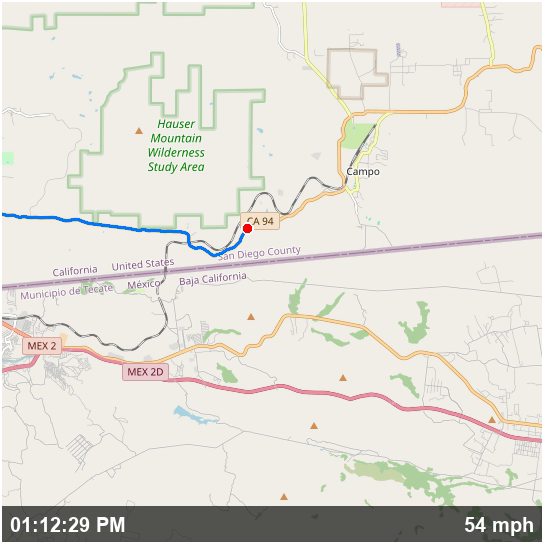
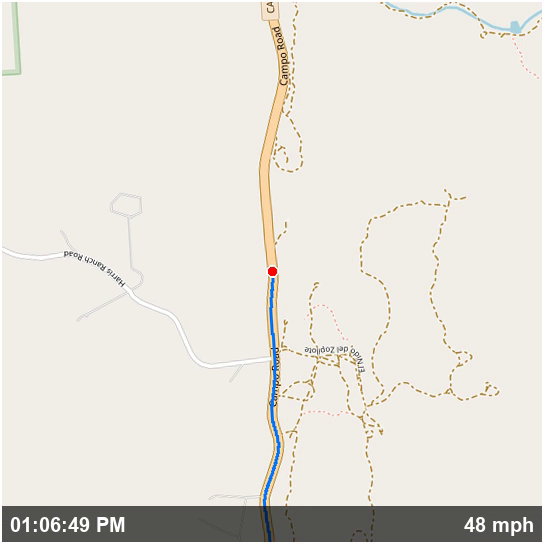
Add heading-up rotation, zoom-in intro, and tile caching
- Map rotates so direction of travel always points up (nav-style)
- 5-second animated zoom intro from state level (z7) to cruise (z15)
- Cruise zoom changed from auto-fit to z15 for street-level detail
- Disk-based tile cache under %TEMP%\gopro_tile_cache for fast re-runs
- Pre-fetch step downloads all needed tiles before rendering
- Smooth heading with exponential moving average

diff --git a/gopro_map_overlay.py b/gopro_map_overlay.py
@@ -115,6 +115,7 @@ TILE_SERVERS = {
 }
 
 TILE_CACHE = {}
+TILE_CACHE_DIR = os.path.join(tempfile.gettempdir(), 'gopro_tile_cache')
 USER_AGENT = 'gopro-map-overlay/1.0 (https://github.com/MikeMontana1968/gopro-map-overlay)'
 
 
@@ -128,35 +129,86 @@ def _ll_to_tile(lat, lon, zoom):
 
 
 def _fetch_tile(tx, ty, zoom, map_type):
-    """Fetch a single 256x256 map tile, with in-memory caching."""
+    """Fetch a 256x256 map tile with memory + disk caching."""
     key = (tx, ty, zoom, map_type)
     if key in TILE_CACHE:
         return TILE_CACHE[key]
+
+    # Check disk cache
+    cache_dir = os.path.join(TILE_CACHE_DIR, map_type, str(zoom))
+    cache_path = os.path.join(cache_dir, f"{tx}_{ty}.png")
+    if os.path.isfile(cache_path):
+        img = Image.open(cache_path).convert('RGB')
+        TILE_CACHE[key] = img
+        return img
+
     url = TILE_SERVERS[map_type].format(z=zoom, x=tx, y=ty)
     try:
         req = Request(url, headers={'User-Agent': USER_AGENT})
-        resp = urlopen(req, timeout=15)
-        img = Image.open(BytesIO(resp.read())).convert('RGB')
+        resp = urlopen(req, timeout=5)
+        tile_data = resp.read()
+        img = Image.open(BytesIO(tile_data)).convert('RGB')
+        os.makedirs(cache_dir, exist_ok=True)
+        with open(cache_path, 'wb') as f:
+            f.write(tile_data)
     except Exception:
         img = Image.new('RGB', (256, 256), (200, 200, 200))
     TILE_CACHE[key] = img
     return img
 
 
-def choose_zoom(points, map_size):
-    """Pick a zoom level so the full GPS track fits in the map with padding."""
-    if len(points) < 2:
-        return 15
-    lats = [p['lat'] for p in points]
-    lons = [p['lon'] for p in points]
-    span = max(max(lats) - min(lats), max(lons) - min(lons))
-    if span == 0:
-        return 15
-    for z in range(18, 8, -1):
-        degrees_visible = 360 / (2 ** z) * (map_size / 256)
-        if degrees_visible > span * 1.5:
-            return z
-    return 10
+def prefetch_tiles(points, zoom_levels, map_size, map_type):
+    """Pre-fetch all tiles needed for the route at all zoom levels."""
+    import time
+    needed = set()
+    padding = 3
+    tiles_needed = (map_size // 256) + padding + 1
+    half = tiles_needed // 2
+
+    for z in zoom_levels:
+        for p in points:
+            cx, cy = _ll_to_tile(p['lat'], p['lon'], z)
+            center_tx, center_ty = int(cx), int(cy)
+            for dx in range(-half, half + 1):
+                for dy in range(-half, half + 1):
+                    needed.add((center_tx + dx, center_ty + dy, z))
+
+    # Remove already-cached tiles
+    to_fetch = []
+    for tx, ty, z in needed:
+        key = (tx, ty, z, map_type)
+        if key in TILE_CACHE:
+            continue
+        cache_path = os.path.join(TILE_CACHE_DIR, map_type, str(z), f"{tx}_{ty}.png")
+        if os.path.isfile(cache_path):
+            continue
+        to_fetch.append((tx, ty, z))
+
+    if not to_fetch:
+        print(f"  All {len(needed)} tiles already cached", flush=True)
+        return
+
+    print(f"  {len(needed)} tiles needed, {len(to_fetch)} to download...", flush=True)
+    for i, (tx, ty, z) in enumerate(to_fetch):
+        _fetch_tile(tx, ty, z, map_type)
+        if (i + 1) % 50 == 0:
+            print(f"    {i + 1}/{len(to_fetch)} tiles", flush=True)
+        time.sleep(0.05)  # rate limit: max 20 req/sec
+    print(f"  Tile prefetch complete", flush=True)
+
+
+CRUISE_ZOOM = 15  # ~1-2 mile context, good for 30-70 mph driving
+INTRO_ZOOM_START = 7  # state-level overview for the intro animation
+INTRO_DURATION = 5.0  # seconds for the zoom-in intro
+
+
+def _bearing(lat1, lon1, lat2, lon2):
+    """Compute forward bearing in degrees (0=north, 90=east) between two points."""
+    lat1, lon1, lat2, lon2 = map(math.radians, [lat1, lon1, lat2, lon2])
+    dlon = lon2 - lon1
+    x = math.sin(dlon) * math.cos(lat2)
+    y = math.cos(lat1) * math.sin(lat2) - math.sin(lat1) * math.cos(lat2) * math.cos(dlon)
+    return math.degrees(math.atan2(x, y)) % 360
 
 
 def _get_font(size):
@@ -171,10 +223,16 @@ def _get_font(size):
 
 
 def render_map(center_lat, center_lon, trail, map_size, zoom, map_type,
-               timestamp=None, speed_mph=None):
-    """Render a single map frame with trail, position dot, and info bar."""
+               timestamp=None, speed_mph=None, heading=None):
+    """Render a single map frame with trail, position dot, and info bar.
+
+    If heading is provided (degrees, 0=north), the map is rotated so the
+    direction of travel points up.
+    """
     cx, cy = _ll_to_tile(center_lat, center_lon, zoom)
-    tiles_needed = (map_size // 256) + 3
+    # Fetch extra tiles to allow rotation without blank corners
+    padding = 2 if heading is None else 3
+    tiles_needed = (map_size // 256) + padding + 1
     half = tiles_needed // 2
     canvas_size = tiles_needed * 256
     canvas = Image.new('RGB', (canvas_size, canvas_size))
@@ -203,9 +261,16 @@ def render_map(center_lat, center_lon, trail, map_size, zoom, map_type,
     draw.ellipse([cpx - r, cpy - r, cpx + r, cpy + r],
                  fill=(255, 0, 0), outline=(255, 255, 255), width=2)
 
-    # Crop to map_size centered
-    left = canvas_size // 2 - map_size // 2
-    top = canvas_size // 2 - map_size // 2
+    # Rotate so heading points up, then crop centered
+    if heading is not None:
+        canvas = canvas.rotate(heading, resample=Image.BICUBIC,
+                               center=(cpx, cpy), fillcolor=(200, 200, 200))
+        left = cpx - map_size // 2
+        top = cpy - map_size // 2
+    else:
+        left = canvas_size // 2 - map_size // 2
+        top = canvas_size // 2 - map_size // 2
+
     cropped = canvas.crop((left, top, left + map_size, top + map_size))
 
     # Info bar (semi-transparent black strip at bottom)
@@ -308,15 +373,29 @@ def main():
         print(f"  Start time: {creation_time.strftime('%I:%M:%S %p')}", flush=True)
 
     map_size = args.size or min(vid_w, vid_h) // 4
-    zoom = args.zoom or choose_zoom(points, map_size)
+    cruise_zoom = args.zoom or CRUISE_ZOOM
+    intro_frames = int(INTRO_DURATION * args.hz)
 
     print(f"  Video: {vid_w}x{vid_h}, {duration:.1f}s", flush=True)
-    print(f"  Map: {map_size}x{map_size}px, zoom {zoom}, {args.map}", flush=True)
+    print(f"  Map: {map_size}x{map_size}px, cruise zoom {cruise_zoom}, {args.map}",
+          flush=True)
+    print(f"  Intro: {INTRO_DURATION}s zoom {INTRO_ZOOM_START} -> {cruise_zoom}",
+          flush=True)
+
+    # --- Step 2b: Pre-fetch map tiles ---
+    print("Pre-fetching map tiles...", flush=True)
+    all_zooms = list(range(INTRO_ZOOM_START, cruise_zoom + 1))
+    # Only sample every Nth point for prefetch (no need to check all 9000+)
+    sample_step = max(1, len(points) // 200)
+    sample_points = points[::sample_step] + [points[-1]]
+    prefetch_tiles(sample_points, all_zooms, map_size, args.map)
 
     # --- Step 3: Render map frames ---
     frames_dir = tempfile.mkdtemp(prefix='gopro_map_')
     total_frames = int(duration * args.hz) + 1
     print(f"Rendering {total_frames} map frames...", flush=True)
+
+    prev_heading = 0.0
 
     for idx in range(total_frames):
         t = idx / args.hz
@@ -326,12 +405,33 @@ def main():
         current = points[gps_idx]
         trail = points[:gps_idx + 1]
 
+        # Zoom: intro animation or cruise
+        if idx < intro_frames:
+            frac = idx / intro_frames
+            # Ease-in-out (smoothstep)
+            frac = frac * frac * (3 - 2 * frac)
+            zoom = INTRO_ZOOM_START + (cruise_zoom - INTRO_ZOOM_START) * frac
+            # render_map needs int zoom for tile fetching, so we step
+            zoom = int(round(zoom))
+        else:
+            zoom = cruise_zoom
+
+        # Heading: direction of travel (bearing from recent GPS points)
+        if gps_idx > 0:
+            # Average over a few points to smooth jitter
+            look_back = max(0, gps_idx - 5)
+            hdg = _bearing(points[look_back]['lat'], points[look_back]['lon'],
+                           current['lat'], current['lon'])
+            # Smooth heading transitions
+            prev_heading = prev_heading + 0.3 * (((hdg - prev_heading + 180) % 360) - 180)
+        heading = prev_heading
+
         ts = (creation_time + timedelta(seconds=t)) if creation_time else None
         speed_mph = current['speed'] * MPS_TO_MPH if current.get('speed') else None
 
         img = render_map(current['lat'], current['lon'], trail,
                          map_size, zoom, args.map,
-                         timestamp=ts, speed_mph=speed_mph)
+                         timestamp=ts, speed_mph=speed_mph, heading=heading)
 
         bordered = Image.new('RGB', (map_size + 4, map_size + 4), (255, 255, 255))
         bordered.paste(img, (2, 2))

diff --git a/README.md b/README.md
@@ -10,10 +10,12 @@ Extracts the embedded GPS telemetry (GPMF) from GoPro footage and renders a movi
 
 - Parses GoPro's GPMF telemetry format directly (GPS5 and GPS9)
 - Three map styles: **street** (OpenStreetMap), **topo** (OpenTopoMap), **satellite** (ESRI)
+- **Heading-up rotation** — map rotates so direction of travel always points up (nav-style)
+- **Zoom-in intro** — 5-second animated zoom from state level to street level
 - Blue trail showing the route traveled so far
 - Red dot for current position
 - Semi-transparent info bar with clock time and speed (mph)
-- Auto-detects zoom level to fit the full track
+- Disk-based tile cache for fast re-runs
 - No API keys required
 
 ## Requirements
@@ -57,7 +59,7 @@ python gopro_map_overlay.py GH010157.MP4 \
 |------|---------|-------------|
 | `--map` | `street` | Map style: `street`, `topo`, or `satellite` |
 | `--hz` | `2` | Map update rate (frames per second) |
-| `--zoom` | auto | Override zoom level (auto-fits the full track) |
+| `--zoom` | `15` | Override cruise zoom level (15 = street-level detail) |
 | `--size` | 1/4 video height | Map thumbnail size in pixels |
 | `-o` / `--output` | `<input>_map_overlay.mp4` | Output file path |
 
@@ -74,8 +76,9 @@ The output is a small H.264 video (typically under 1 MB) matching the duration o
 
 1. **Extract** — Pulls the GPMF binary telemetry stream from the MP4 using FFmpeg
 2. **Parse** — Walks the GPMF container hierarchy (DEVC > STRM > GPS5/GPS9), applies SCAL divisors to get decimal lat/lon/alt/speed
-3. **Render** — For each time step, fetches map tiles, draws the trail and position dot, composites the time/speed info bar
-4. **Encode** — Assembles the frames into an H.264 video with FFmpeg
+3. **Pre-fetch** — Calculates all map tiles needed across the route and zoom levels, downloads them with a disk cache
+4. **Render** — For each time step, composites cached tiles, draws trail and position dot, rotates by heading, adds time/speed info bar
+5. **Encode** — Assembles the frames into an H.264 video with FFmpeg
 
 ## Supported cameras
 